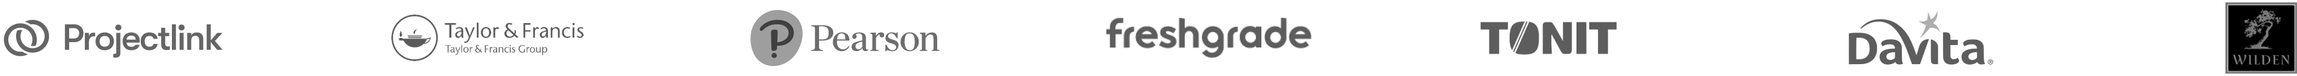
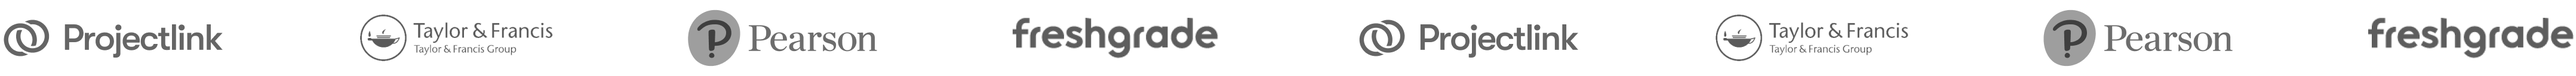
update marquee images

diff --git a/components/ghostLogos.tsx b/components/ghostLogos.tsx
@@ -15,28 +15,28 @@ function GhostLogos() {
 				left={0}
 				top={0}
 				w='100px'
-				h='100px'
+				h='100%'
 				position='absolute'
 			/>
-			{/* <Stack> */}
-			{/* <Image
+			<Stack spacing={8}>
+				<Image
 					w='auto'
 					h='60px'
 					maxW='none'
 					src='/past-work2.png'
-					animation={`glacier 40s infinite linear`}
-					opacity={.7}
-				/> */}
-			<Image
-				w='auto'
-				h='64px'
-				maxW='none'
-				src='/past-work.png'
-				// animation={`glacier 60s infinite linear`}
-				animation={[`glacier 20s infinite linear`, `glacier 20s infinite linear`, `glacier 60s infinite linear`]}
-				opacity={.7}
-			/>
-			{/* </Stack> */}
+					animation={[`glacier 15s infinite linear`, `glacier 15s infinite linear`, `glacier 60s infinite linear`]}
+					opacity={.66}
+				/>
+				<Image
+					w='auto'
+					h='64px'
+					maxW='none'
+					src='/past-work.png'
+					// animation={`glacier 60s infinite linear`}
+					animation={[`glacier 20s infinite linear`, `glacier 20s infinite linear`, `glacier 80s infinite linear`]}
+					opacity={.66}
+				/>
+			</Stack>
 			<Box
 				bgGradient={`linear(to-l, black, transparent)`}
 				zIndex={2}

diff --git a/components/whatWeDoTabs.tsx b/components/whatWeDoTabs.tsx
@@ -17,7 +17,7 @@ const data = [
 	},
 	{
 		title: 'Develop',
-		description: 'Our in-house development team goes to work. We use industry leading tech stacks with a focus on performance, security, and scalability.'
+		description: 'Our in-house development team goes to work. We use industry leading tech with a focus on performance, security, and scalability.'
 	},
 	{
 		title: 'Launch',

diff --git a/components/header.tsx b/components/header.tsx
@@ -50,10 +50,15 @@ function Header({ openModal }) {
 					direction='row'
 					spacing={6}
 				>
-					<NavLink>
+					<NavLink
+						as='a'
+						href='#about'
+					>
 						about
 					</NavLink>
-					<NavLink onClick={openModal}>
+					<NavLink
+						onClick={openModal}
+					>
 						contact
 					</NavLink>
 				</Stack>

diff --git a/pages/index.tsx b/pages/index.tsx
@@ -117,8 +117,12 @@ function Home() {
         <Container
           py={40}
           zIndex={2}
+          id='about'
         >
-          <Stack mb={16} spacing={14}>
+          <Stack
+            mb={16}
+            spacing={14}
+          >
             <Eyebrow>
               What we do
             </Eyebrow>

diff --git a/theme/components.ts b/theme/components.ts
@@ -65,7 +65,7 @@ export default {
 					paddingBottom: 6,
 					fontSize: 'lg',
 					fontWeight: 'bold',
-					color: 'gray.500',
+					color: 'gray.300',
 					_selected: {
 						color: 'black',
 					},
